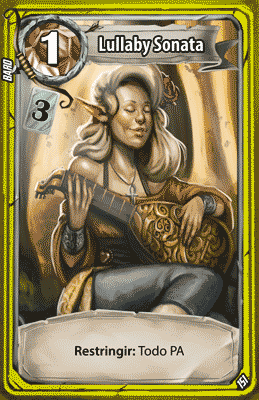
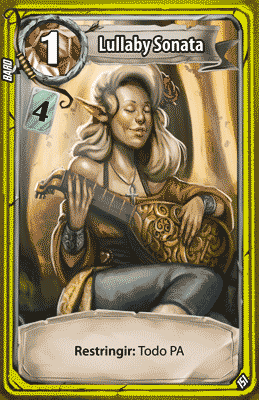
cards balancing

diff --git a/SemVer.md b/SemVer.md
@@ -2,6 +2,18 @@ DeckCreator
 
 Releases:
 
+    1.15.6 (06/06/2022)
+      -  Correção de bugs:
+          - Correção das imagens que estavam sendo mostradas erradas.
+      - Balanceamento de cartas:
+          - Exorcism (Cleric): Custo reduzido e adicionado efeito de Alvo.
+          - Lullaby Sonata (Bard): Custo aumentado.
+          - Healing Elixir (Alchemist): Efeito reduzido e removido efeito de Alvo.
+          - Reallocate (Spell): Descrição do efeito alterado para incluir o efeito Assaltar.
+          - Pupil (Talent): Aumentado o custo e adicionada nova restrição de uso.
+          - Guardian: Aumentado o máximo de PV da classe.
+
+
     1.15.5 (20/05/2022)
       -  Correção de bugs:
           - Atualização de segurança.
